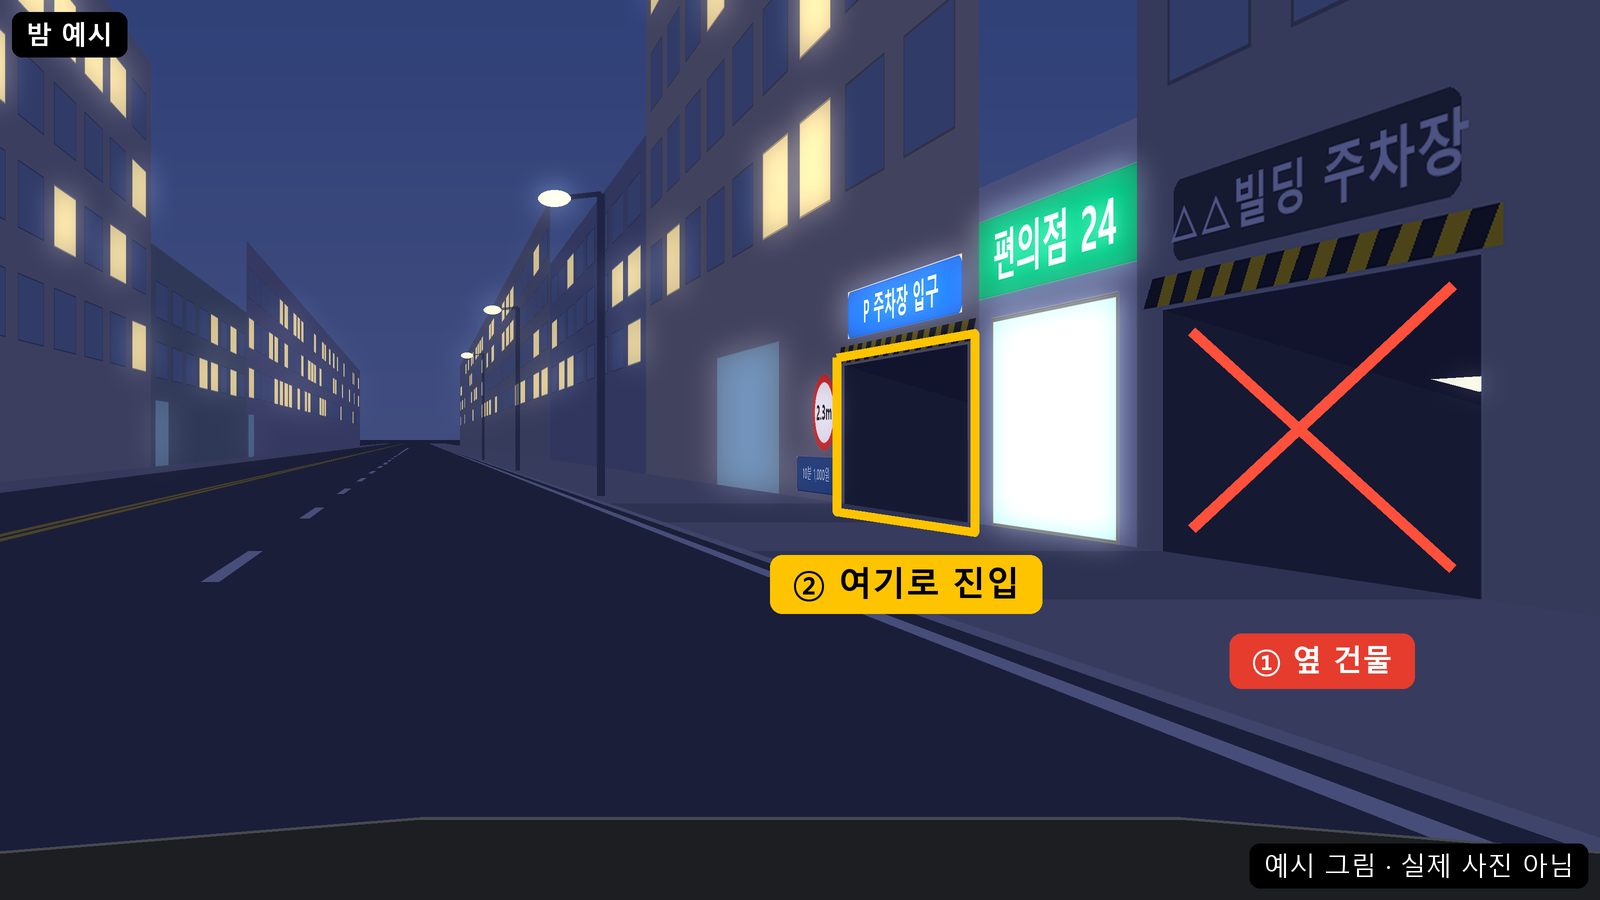
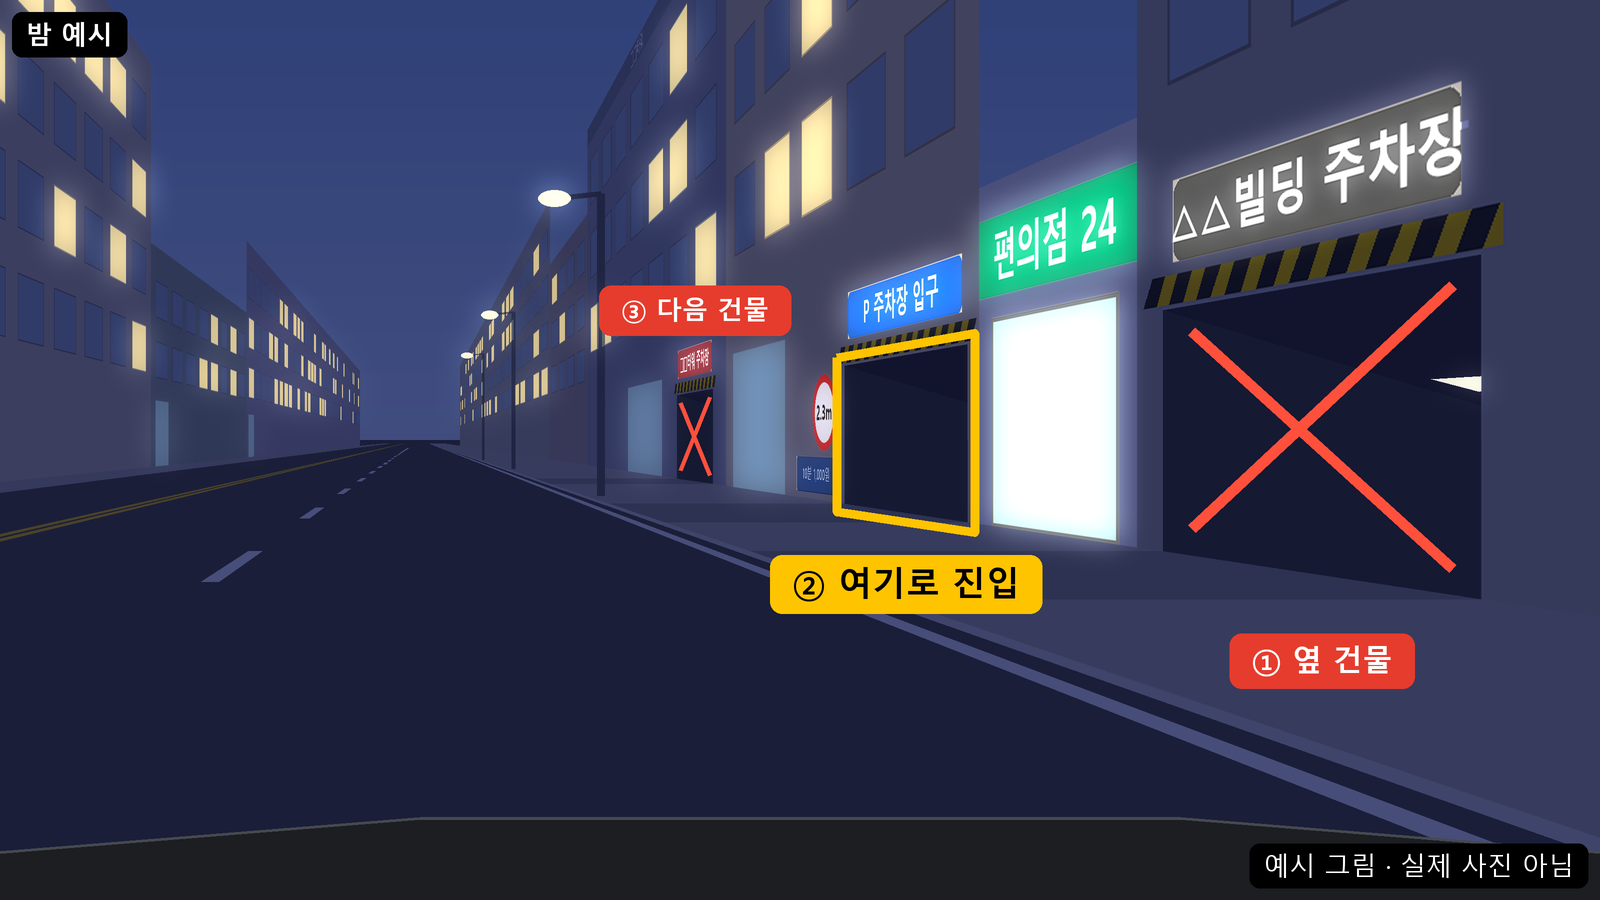
Add a third confusing ramp after the target in example drawings
Show the next building's ramp right after the target so both the ramp
before and the ramp after are marked as wrong. The far view now reads
"1 neighbor - convenience store - 2 target - 3 next building", and the
near view marks the next building's ramp just before the turn. All
parking signs stay lit in the night view, as they would in reality.

Changed region(s): [[0.2812, 0.0, 0.5, 0.56], [0.7188, 0.0933, 0.9375, 0.3111], [0.4688, 0.1556, 0.5, 0.2489]]

diff --git a/tools/draw_example_entrance.py b/tools/draw_example_entrance.py
@@ -27,6 +27,8 @@ LEFT_LINE = -12.0            # 맞은편 건물 벽
 RAMP_TOP = 2.6               # 경사로 입구 높이
 RAMP1 = (9.8, 14.0)          # 옆 건물 경사로 (첫 번째)
 RAMP2 = (19.0, 24.5)         # 목적지 경사로 (두 번째, 편의점 바로 다음)
+RAMP3 = (35.5, 40.5)         # 다음 건물 경사로 (지나치면 나오는 헷갈리는 입구)
+RAMPS = (RAMP1, RAMP2, RAMP3)
 
 
 def font(size, bold=True):
@@ -174,7 +176,7 @@ def build_world():
     f.windows(2.4, 14.2, 4.4, 13.2, 6, 3, (120, 118, 114), (150, 172, 192), 0.3, 1)
     f.rect(2.0, 14.5, 13.3, 14.0, (140, 136, 130))
     f.rect(3.2, 8.4, 0, 3.1, (110, 140, 165), lit=120)          # 로비 유리
-    ramp_facade(f, RAMP1, "△△빌딩 주차장", (60, 60, 60), 0)
+    ramp_facade(f, RAMP1, "△△빌딩 주차장", (60, 60, 60), 255)  # 밤에는 옆 건물 간판도 켜져 있어 더 헷갈린다
     rf.append(f)
     # 편의점 (경사로 사이, 낮은 건물)
     f = Facade(BUILDING_LINE, 14.5, 18.6, 4.8, (236, 236, 230))
@@ -183,20 +185,28 @@ def build_world():
     f.rect(14.9, 18.2, 0, 2.9, (170, 205, 220), lit=255, outline=(90, 90, 90), width=4)
     rf.append(f)
     # ② 목적지 ○○프라자 (두 번째 경사로)
-    f = Facade(BUILDING_LINE, 18.6, 46, 20, (214, 196, 168))
-    f.windows(19, 45.5, 5.2, 18.6, 9, 4, (160, 140, 110), (150, 172, 192), 0.35, 2)
-    f.rect(18.6, 46, 18.8, 20, (190, 170, 140))
-    f.text(32, 19.4, "○○프라자", 1.0, (80, 60, 40))
+    f = Facade(BUILDING_LINE, 18.6, 34, 20, (214, 196, 168))
+    f.windows(19, 33.5, 5.2, 18.6, 5, 4, (160, 140, 110), (150, 172, 192), 0.35, 2)
+    f.rect(18.6, 34, 18.8, 20, (190, 170, 140))
+    f.text(26.3, 19.4, "○○프라자", 1.0, (80, 60, 40))
     ramp_facade(f, RAMP2, "P 주차장 입구", (20, 90, 200), 255)
     f.d.ellipse(f.box(25.0, 26.5, 1.0, 2.5), fill=(255, 255, 255), outline=(220, 30, 30), width=int(0.16 * PPM))  # 높이 제한 표지
     f.ld.ellipse(f.box(25.0, 26.5, 1.0, 2.5), fill=160)
     f.text(25.75, 1.75, "2.3m", 0.42, (0, 0, 0))
     f.rect(25.0, 27.6, 0.15, 0.85, (30, 60, 120), lit=140, radius=6)
     f.text(26.3, 0.5, "10분 1,000원", 0.3, (255, 255, 255), bold=False)
-    f.rect(29, 35, 0, 3.4, (110, 140, 165), lit=150)                 # 로비
+    f.rect(28.5, 33.2, 0, 3.4, (110, 140, 165), lit=150)             # 로비
     rf.append(f)
-    f = Facade(BUILDING_LINE, 46, 80, 12, (150, 156, 166))
-    f.windows(46.5, 79.5, 3.5, 11.5, 8, 3, (110, 116, 126), (150, 172, 192), 0.3, 3)
+    # ③ 다음 건물 □□타워 (목적지를 지나치면 바로 나오는 경사로)
+    f = Facade(BUILDING_LINE, 34, 62, 16, (150, 156, 166))
+    f.windows(34.5, 61.5, 4.6, 15, 7, 3, (110, 116, 126), (150, 172, 192), 0.3, 3)
+    f.rect(34, 62, 15.2, 16, (128, 134, 146))
+    f.text(48, 15.6, "□□타워", 0.7, (255, 255, 255))
+    ramp_facade(f, RAMP3, "□□타워 주차장", (130, 40, 52), 255)
+    f.rect(43, 50, 0, 3.2, (110, 140, 165), lit=120)                 # 로비
+    rf.append(f)
+    f = Facade(BUILDING_LINE, 62, 80, 12, (176, 160, 150))
+    f.windows(62.5, 79.5, 3.5, 11.5, 4, 3, (130, 116, 108), (150, 172, 192), 0.3, 5)
     rf.append(f)
     f = Facade(BUILDING_LINE, 80, 260, 16, (176, 170, 160))
     f.windows(80.5, 259, 3.5, 15, 30, 4, (130, 126, 120), (150, 172, 192), 0.3, 4)
@@ -226,7 +236,7 @@ def draw_ground(img, cam):
     zn, zf = cam.near, 400
     poly(d, cam, [(CURB, 0, zn), (BUILDING_LINE, 0, zn), (BUILDING_LINE, 0, zf), (CURB, 0, zf)], (178, 174, 168))
     poly(d, cam, [(LEFT_LINE + 2.5, 0, zn), (LEFT_LINE, 0, zn), (LEFT_LINE, 0, zf), (LEFT_LINE + 2.5, 0, zf)], (170, 166, 160))
-    for a, b in (RAMP1, RAMP2):  # 경사로 앞 인도 (차가 지나가는 턱 낮춘 부분)
+    for a, b in RAMPS:  # 경사로 앞 인도 (차가 지나가는 턱 낮춘 부분)
         a = max(a, zn)
         if a < b:
             poly(d, cam, [(CURB, 0, a), (BUILDING_LINE, 0, a), (BUILDING_LINE, 0, b), (CURB, 0, b)], (140, 140, 140))
@@ -291,11 +301,11 @@ def render_scene(cam):
     right, left = build_world()
     for f in left:
         f.place(img, lit, cam)
-    for r in (RAMP1, RAMP2):
+    for r in RAMPS:
         draw_ramp_interior(img, lit, cam, r)
     for f in reversed(right):  # 먼 건물부터
         f.place(img, lit, cam)
-    for z in (28.0, 52.0, 80.0):
+    for z in (28.0, 54.0, 80.0):
         street_lamp(img, lit, cam, z)
     return img.convert("RGB"), lit
 
@@ -341,13 +351,18 @@ def mark_target(d, q, label, pos=None):
     pill(d, pos[0], pos[1], label, (255, 196, 0), (0, 0, 0), 34)
 
 
-def mark_wrong(d, q, label):
+def mark_wrong(d, q, label, above=False, size=30):
     tl, tr, br, bl = grow(q, 0.82)
-    d.line([tl, br], fill=(255, 80, 60), width=11 * SS)
-    d.line([tr, bl], fill=(255, 80, 60), width=11 * SS)
+    qw = max(p[0] for p in q) - min(p[0] for p in q)
+    w = int(max(4 * SS, min(11 * SS, qw / 10)))  # 멀리 있는 작은 입구는 가는 선
+    d.line([tl, br], fill=(255, 80, 60), width=w)
+    d.line([tr, bl], fill=(255, 80, 60), width=w)
     bx = sum(p[0] for p in q) / 4
-    by = max(p[1] for p in q)
-    pill(d, min(bx, W - 170 * SS), by + 62 * SS, label, (230, 60, 45), (255, 255, 255), 30)
+    if above:
+        y = min(p[1] for p in q) - 78 * SS  # 간판 바로 위
+    else:
+        y = max(p[1] for p in q) + 62 * SS
+    pill(d, min(bx, W - 170 * SS), y, label, (230, 60, 45), (255, 255, 255), size)
 
 
 def turn_arrow(img, start, end, ctrl):
@@ -408,6 +423,7 @@ def main():
     def far_marks(img):
         d = ImageDraw.Draw(img)
         mark_wrong(d, opening_quad(far_cam, RAMP1), "① 옆 건물")
+        mark_wrong(d, opening_quad(far_cam, RAMP3), "③ 다음 건물", above=True, size=26)
         mark_target(d, opening_quad(far_cam, RAMP2), "② 여기로 진입")
 
     # near: 꺾기 직전, 목적지 경사로 약 7m 앞 (입구를 비스듬히)
@@ -417,6 +433,7 @@ def main():
         q = opening_quad(near_cam, RAMP2)  # [먼 쪽 위, 가까운 쪽 위, 가까운 쪽 아래, 먼 쪽 아래]
         d = ImageDraw.Draw(img)
         near_bottom = q[2]
+        mark_wrong(d, opening_quad(near_cam, RAMP3), "다음 건물 · 아님", above=True, size=26)
         mark_target(d, q, "여기로 진입", pos=(near_bottom[0] - 70 * SS, near_bottom[1] + 70 * SS))
         # 바닥 가운데보다 조금 먼 쪽, 입구 안쪽을 가리킨다
         tip = (q[3][0] * 0.55 + q[2][0] * 0.45, (q[3][1] * 0.55 + q[2][1] * 0.45) - 40 * SS)
